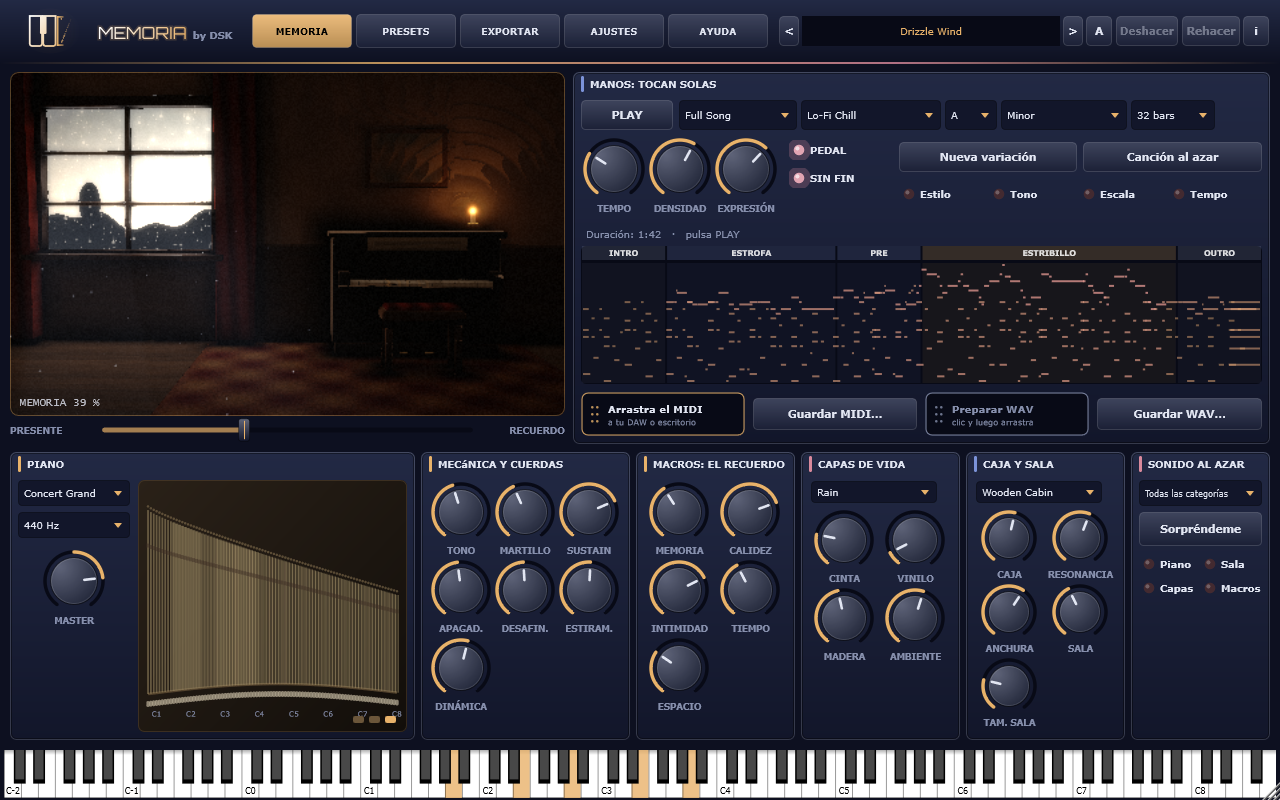
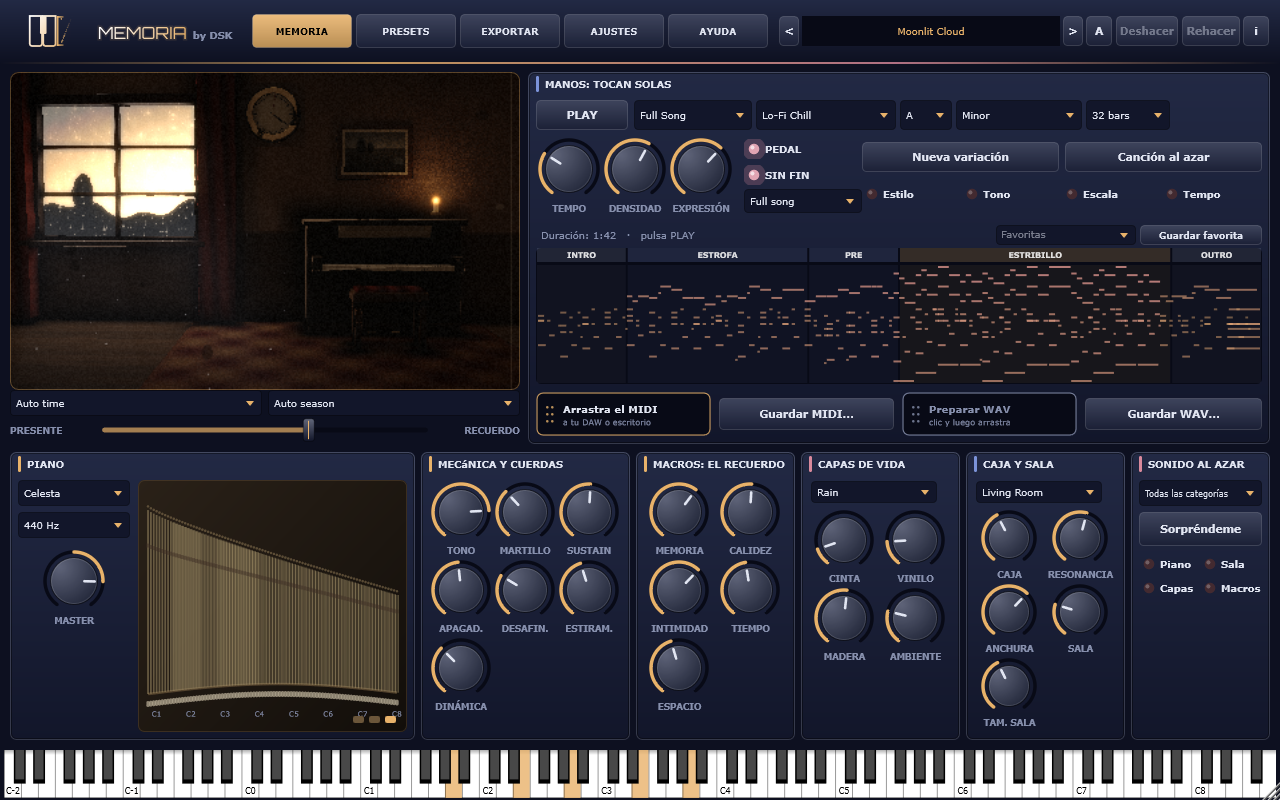
Docs, demo video inputs, screenshots, help page; styles; scene [skip ci]

diff --git a/tests/Video.cpp b/tests/Video.cpp
@@ -140,25 +140,44 @@ int runVideo (const juce::File& dir, bool trailer)
 {
     if (! trailer)
     {
-        // 70 s: one sound, one scene; MEMORY goes from a present studio piano to an attic tape, the world outside changes slowly
-        const double len = 70.0;
+        // 110 s: what is new: the hour of the day and the seasons behind the window, the wall clock, new instruments, new song styles
+        const double len = 110.0;
         std::vector<Caption> caps {
-            { "MEMORIA", "A piano with a soul  ·  Un piano con alma", 1.0, 7.0, true },
-            { "A physically modelled piano. No samples.", "Un piano modelado físicamente. Sin muestras.", 8.0, 15.0 },
-            { "Turn up MEMORY...", "Sube MEMORIA...", 17.0, 24.0 },
-            { "Tape, vinyl, wood and a room that remembers", "Cinta, vinilo, madera y una habitación con recuerdos", 28.0, 36.0 },
-            { "Rain on the window", "Lluvia en la ventana", 38.0, 45.0 },
-            { "The hands compose and play, in time with your DAW", "Las manos componen y tocan, al ritmo de tu DAW", 48.0, 56.0 },
-            { "MEMORIA by DSK", "Free · VST3 / AU / Standalone · dskmusic.com  ·  Gratis", 62.0, 69.0, true } };
+            { "MEMORIA", "A piano with a soul  ·  Un piano con alma", 1.0, 6.5, true },
+            { "A physically modelled piano. No samples.", "Un piano modelado físicamente. Sin muestras.", 7.5, 14.5 },
+            { "Hour of the day and season, behind your window", "Hora del día y estación del año, tras tu ventana", 16.0, 25.0 },
+            { "A wall clock that follows the light", "Un reloj de pared que sigue la luz", 27.0, 35.0 },
+            { "From dawn to a snowy night", "Del amanecer a una noche de nieve", 37.0, 45.0 },
+            { "New instruments: electric piano, vibraphone...", "Instrumentos nuevos: piano eléctrico, vibráfono...", 46.0, 55.0 },
+            { "...music box, marimba and glockenspiel", "...caja de música, marimba y glockenspiel", 56.0, 66.0 },
+            { "Four new song styles: Bossa Nova...", "Cuatro estilos nuevos: Bossa Nova...", 68.0, 76.0 },
+            { "...Singer-Songwriter and Slow Tango...", "...Cantautor y Tango lento...", 77.0, 86.0 },
+            { "...and a cheerful Village theme", "...y un alegre tema de Pueblo", 87.0, 95.0 },
+            { "Loops, choruses and short pieces: drag the MIDI into your DAW", "Bucles, estribillos y piezas cortas: arrastra el MIDI a tu DAW", 96.0, 104.0 },
+            { "MEMORIA by DSK", "Free · VST3 / AU / Standalone · dskmusic.com  ·  Gratis", 104.5, 109.5, true } };
         Setter setter = [] (MemoriaProcessor& p, double t)
         {
-            if (t < 0.02) prepareSound (p, 0, 1, 76.0f, 31);
-            if (t < 0.02) { setP (p, "hands", 1.0f); setP (p, "piano", 0.0f); }
-            const float m = ramp (t, 17.0, 40.0) * (1.0f - 0.7f * ramp (t, 56.0, 68.0));
-            setP (p, "memory", m);
-            setP (p, "world", t > 36.0 && t < 52.0 ? 1.0f : t >= 52.0 ? 3.0f : 0.0f);
-            setP (p, "world_level", 0.7f);
-            setP (p, "time", 0.7f);
+            if (t < 0.02) { prepareSound (p, 0, 1, 76.0f, 31); setP (p, "hands", 1.0f); setP (p, "piano", 0.0f); setP (p, "resonance", 0.3f); }
+            setP (p, "memory", 0.12f + 0.10f * ramp (t, 0.0, 100.0));
+            setP (p, "world_level", 0.5f); setP (p, "time", 0.6f);
+            // scene: auto at first, then hour and season sweep (the scene eases between looks)
+            const float tod = t < 16.0 ? 0.0f : t < 24.0 ? 2.0f : t < 30.0 ? 3.0f : t < 37.0 ? 4.0f : 5.0f;
+            const float season = t < 16.0 ? 0.0f : t < 24.0 ? 1.0f : t < 30.0 ? 2.0f : t < 37.0 ? 3.0f : t < 66.0 ? 4.0f : 0.0f;
+            setP (p, "scene_time", t < 94.0 ? tod : 3.0f); setP (p, "scene_season", t < 94.0 ? season : 2.0f);
+            // instruments
+            const float inst = t < 46.0 ? 0.0f : t < 51.0 ? 6.0f : t < 56.0 ? 7.0f : t < 61.0 ? 9.0f : t < 66.0 ? 10.0f : 0.0f;
+            setP (p, "piano", inst);
+            if (t >= 46.0 && t < 66.0) { setP (p, "tone", 0.55f); setP (p, "resonance", 0.1f); } else { setP (p, "tone", 0.45f); setP (p, "resonance", 0.3f); }
+            // song styles
+            int style = 0, key = 9, scale = 1; float tempo = 76;
+            if (t >= 46.0 && t < 68.0) { style = 8; key = 0; scale = 0; tempo = 74; }
+            else if (t >= 68.0 && t < 77.0) { style = 10; key = 2; scale = 0; tempo = 96; }
+            else if (t >= 77.0 && t < 87.0) { style = 11; key = 7; scale = 0; tempo = 76; }
+            else if (t >= 87.0 && t < 96.0) { style = 12; key = 9; scale = 7; tempo = 66; }
+            else if (t >= 96.0) { style = 13; key = 0; scale = 0; tempo = 100; }
+            setP (p, "hands_style", (float) style); setP (p, "hands_key", (float) key); setP (p, "hands_scale", (float) scale); setP (p, "hands_tempo", tempo);
+            setP (p, "hands_form", t >= 96.0 && t < 104.0 ? 1.0f : 0.0f);
+            setP (p, "hands_seed", 31.0f);
         };
         return makeVideo (dir, "Memoria-demo", len, setter, caps);
     }

diff --git a/src/ui/HelpPage.cpp b/src/ui/HelpPage.cpp
@@ -15,10 +15,10 @@ const Item items[] {
       "so the piano breathes with the way you play: soft and it is round, hard and it opens up and shines. "
       "Play with a MIDI keyboard or the on-screen keys. The sustain pedal (CC64) really works, half-pedaling included." },
     { "El piano", "The piano",
-      "PIANO elige el instrumento: cola de concierto, vertical, piano de fieltro, honky-tonk, piano de juguete, celesta, piano eléctrico o vibráfono. "
+      "PIANO elige el instrumento: cola de concierto, vertical, piano de fieltro, honky-tonk, piano de juguete, celesta, piano eléctrico (con trémolo y chorus), vibráfono, glockenspiel, caja de música o marimba. "
       "TONE es el brillo; HAMMER la dureza del fieltro del martillo; SUSTAIN cuánto dura la nota; DAMPERS lo rápido que cae el apagador al soltar la tecla. "
       "DETUNE desafina un poco las cuerdas de cada nota (más recuerdo, más piano viejo); STRETCH es el estiramiento natural de la afinación; DYNAMICS, cuánto cambia el sonido entre tocar suave y fuerte.",
-      "PIANO picks the instrument: concert grand, upright, felt piano, honky-tonk, toy piano, celesta, electric piano or vibraphone. "
+      "PIANO picks the instrument: concert grand, upright, felt piano, honky-tonk, toy piano, celesta, electric piano (with tremolo and chorus), vibraphone, glockenspiel, music box or marimba. "
       "TONE is brightness; HAMMER the hardness of the felt; SUSTAIN how long notes ring; DAMPERS how fast the damper falls when you release a key. "
       "DETUNE slightly detunes the strings of each note (more memory, older piano); STRETCH is the natural stretch of the tuning; DYNAMICS how much the sound changes between soft and hard playing." },
     { "Caja y sala", "Body & room",
@@ -26,6 +26,13 @@ const Item items[] {
       "WIDTH abre o cierra el estéreo (graves a la izquierda, agudos a la derecha, como oyes al piano). ROOM y ROOM SIZE añaden la sala.",
       "BODY is the wood of the soundboard. RESONANCE is the strings that ring on their own by sympathy while the pedal is down. "
       "WIDTH opens or closes the stereo image (low notes left, high notes right, as the pianist hears it). ROOM and ROOM SIZE add the room." },
+    { "La habitación y las manos", "The room & the hands",
+      "Bajo la escena eliges la HORA del día y la ESTACIÓN del año tras la ventana; el reloj de la pared sigue la luz. La vela y las cortinas reaccionan a la música. "
+      "En MANOS eliges estilo (14), tono, escala y FORMA: canción completa, bucle de 8 compases, solo estribillo o pieza corta. "
+      "«Guardar favorita» recuerda la canción que te gusta y «Favoritas» la recupera.",
+      "Under the scene you pick the HOUR of the day and the SEASON behind the window; the wall clock follows the light. The candle and the curtains react to the music. "
+      "In HANDS you pick the style (14), key, scale and FORM: full song, 8-bar loop, chorus only or a short piece. "
+      "\"Save favourite\" remembers a song you like and \"Favourites\" recalls it." },
     { "Presets y ajustes", "Presets & settings",
       "En PRESETS guardas y recuperas tus sonidos. A/B compara dos versiones y Deshacer / Rehacer siempre están a mano. "
       "Clic derecho en un mando: MIDI Learn. Doble clic: valor por defecto. En Ajustes cambias el idioma y el tamaño de la ventana.",

diff --git a/README.es.md b/README.es.md
@@ -18,20 +18,21 @@ la lluvia en la ventana. Un solo deslizador, **Memoria**, te lleva de un piano d
 - **Piano modelado físicamente (sin librería de muestras):** cada parcial es un resonador con decaimiento e inharmonicidad real de cuerda,
   2-3 cuerdas desafinadas por nota (batidos), el doble decaimiento del piano, fieltro del martillo que brilla más con la velocidad,
   posición de golpe, apagadores, modos de la caja y resonancia simpática. El pedal de sustain (CC64) es continuo: el medio pedal funciona.
-- **Ocho instrumentos:** cola de concierto, vertical, piano de fieltro, honky-tonk, piano de juguete, celesta, piano eléctrico (estilo Rhodes) y vibráfono.
+- **Once instrumentos:** cola de concierto, vertical, piano de fieltro, honky-tonk, piano de juguete, celesta, piano eléctrico (estilo Rhodes, con trémolo y chorus), vibráfono (con su motor), glockenspiel, caja de música y marimba.
 - **Macro Memoria** más Calidez, Intimidad (micro cerca o lejos), Tiempo (cuánto ha envejecido el piano) y Espacio.
 - **Capas de vida:** sonidos de madera (banco, mecanismo, pedal, apagadores), cinta (wow y flutter, saturación, pérdida de agudos, ruido, dropouts),
   vinilo (crackle, rumble, pop de la aguja) y un mundo lejano: lluvia, viento, chimenea, pájaros al amanecer. Cinco salas: salón, iglesia, estudio, cabaña de madera y sala de conciertos vacía.
 - **Manos: un compositor generativo para quien no toca.** Escribe canciones enteras - intro, estrofas, estribillos, puente y final - con armonía funcional
   (séptimas, novenas, acordes sus, dominantes, cadencias), motivos que se desarrollan, estribillos con gancho, patrones de acompañamiento y una interpretación expresiva
-  (dinámica, acordes arpegiados, rubato, pedal). Diez estilos (Lo-Fi Chill, Cinematic, Romantic, Minimal, vals de cuna, Power Ballad, Classical: el Canon en Re de Pachelbel con variaciones crecientes, Jazz Ballad, Lo-Fi Loop y un Nocturno al estilo de Chopin), 8 escalas, cualquier tono,
+  (dinámica, acordes arpegiados, rubato, pedal). Catorce estilos (Bossa Nova, Cantautor, Tango lento, tema de Pueblo, Lo-Fi Chill, Cinematic, Romantic, Minimal, vals de cuna, Power Ballad, Classical: el Canon en Re de Pachelbel con variaciones crecientes, Jazz Ballad, Lo-Fi Loop y un Nocturno al estilo de Chopin), 8 escalas, cualquier tono,
   de 16 a 128 compases, con su propio reloj y botón PLAY (nunca siguen el transporte del DAW); arrastra el MIDI a tu DAW para usarlo allí. **Nueva variación** y **Canción al azar** (con bloqueos) crean otra con un clic. Pulsa en cualquier punto del mapa de la canción para saltar ahí mientras suena.
   **Exporta la canción:** arrástrala como archivo MIDI (o como WAV renderizado) directamente a tu DAW, o guárdala como .mid / .wav.
-- **222 presets de fábrica** en 10 categorías: Lo-Fi, Felt, Cinematic, Rainy, Vintage, Church, Lullaby, Study, Concert y Toy.
+- **232 presets de fábrica** en 10 categorías: Lo-Fi, Felt, Cinematic, Rainy, Vintage, Church, Lullaby, Study, Concert y Toy.
   **Sonido al azar** genera un piano + sala + capas + macros nuevos en cualquier categoría, con bloqueos por sección, validado y con el nivel igualado.
 - **Una habitación 3D cinematográfica, renderizada en directo en tu tarjeta gráfica:** una escena 3D real (raymarching, sombras suaves, oclusión ambiental, reflejos en el lacado y el suelo,
   rayos de luz volumétricos con polvo, lluvia en el cristal, una vela que parpadea, envejecimiento de película). Las teclas del piano se hunden con las notas que suenan.
   Sigue el ambiente que elijas (lluvia, viento, chimenea, amanecer) y envejece con Memoria (sepia, grano, rayas, destellos).
+  Elige la **hora del día** (del amanecer a la noche) y la **estación** tras la ventana (flores, hojas, nieve); un **reloj de pared** sigue la luz, una **fotografía** desenfocada cambia con cada preset y las cortinas y la vela reaccionan a la música, más en los estribillos.
   Tres niveles de calidad en Ajustes; si tu tarjeta no puede, usa una escena por CPU.
 - **El interior del piano, en vivo:** 88 cuerdas que brillan y vibran, martillos que golpean con la velocidad real, apagadores y pedal.
 - **Exportación de audio largo:** las manos tocan de 1 minuto a 3 horas en WAV, FLAC u OGG.

diff --git a/README.md b/README.md
@@ -18,20 +18,21 @@ window. One slider, **Memory**, takes you from a crisp, present studio piano to 
 - **Physically modelled piano (no sample library):** every partial is a decaying resonator with real string inharmonicity,
   2-3 detuned strings per note (beating), the piano's double decay, hammer felt that gets brighter with velocity,
   strike-position comb, dampers, soundboard modes and sympathetic resonance. The sustain pedal (CC64) is continuous: half pedal works.
-- **Eight instruments:** concert grand, upright, felt piano, honky-tonk, toy piano, celesta, electric piano (Rhodes-style) and vibraphone.
+- **Eleven instruments:** concert grand, upright, felt piano, honky-tonk, toy piano, celesta, electric piano (Rhodes-style, with tremolo and chorus), vibraphone (with its motor), glockenspiel, music box and marimba.
 - **Memory macro** plus Warmth, Intimacy (close mic to far), Time (how aged the piano is) and Space.
 - **Layers of life:** wooden sounds (bench, key action, pedal, dampers), tape (wow and flutter, saturation, dull highs, hiss, dropouts),
   vinyl (crackle, rumble, needle pop) and a distant world: rain, wind, fireplace, dawn birds. Five rooms: living room, church, studio, wooden cabin, empty concert hall.
 - **Hands: a generative composer for people who do not play.** It writes whole songs - intro, verses, choruses, bridge, outro - with functional
   harmony (7ths, 9ths, sus chords, dominants, cadences), motifs that develop, hook-driven choruses, accompaniment patterns and an expressive performance
-  (dynamics, rolled chords, rubato, pedalling). Ten styles (Lo-Fi Chill, Cinematic, Romantic, Minimal, Lullaby waltz, Power Ballad, Classical: Pachelbel's Canon in D with growing variations, Jazz Ballad, Lo-Fi Loop and a Chopin-style Nocturne), 8 scales, any key,
+  (dynamics, rolled chords, rubato, pedalling). Fourteen styles (Bossa Nova, Singer-Songwriter, Slow Tango, a Village game theme, Lo-Fi Chill, Cinematic, Romantic, Minimal, Lullaby waltz, Power Ballad, Classical: Pachelbel's Canon in D with growing variations, Jazz Ballad, Lo-Fi Loop and a Chopin-style Nocturne), 8 scales, any key,
   16 to 128 bars, playing on their own clock (PLAY inside the instrument, never with the DAW transport); drag the MIDI into your DAW to use it there. **New variation** and **Random song** (with locks) make a new one in a click. Click anywhere on the song map to jump there while it plays.
   **Export the song:** drag it as a MIDI file (or as a rendered WAV) straight into your DAW, or save it as .mid / .wav.
-- **222 factory presets** in 10 categories: Lo-Fi, Felt, Cinematic, Rainy, Vintage, Church, Lullaby, Study, Concert and Toy.
+- **232 factory presets** in 10 categories: Lo-Fi, Felt, Cinematic, Rainy, Vintage, Church, Lullaby, Study, Concert and Toy.
   **Random sound** generates a new piano + room + layers + macros in any category, with locks for each section, validated and level-matched.
 - **A cinematic 3D room, rendered live on your graphics card:** a real 3D scene (ray-marched, soft shadows, ambient occlusion, lacquer and floor reflections,
   volumetric light shafts with floating dust, rain on the glass, a flickering candle, film ageing). The keys of the piano go down with the notes that sound.
   It follows the weather you choose (rain, wind, fireplace, dawn) and ages with Memory (sepia, grain, scratches, light leaks).
+  Choose the **hour of the day** (dawn to night) and the **season** behind the window (blossom, leaves, snow); a **wall clock** follows the light, a soft-focus **photograph** changes with every preset, and the curtains and the candle react to the music, more in the choruses.
   Three quality levels in Settings; a CPU scene is used if your graphics card cannot run it.
 - **The inside of the piano, live:** 88 strings that glow and vibrate, hammers that strike with the real velocity, dampers and pedal.
 - **Long audio export:** the hands play for 1 minute to 3 hours to WAV, FLAC or OGG.

diff --git a/CHANGELOG.md b/CHANGELOG.md
@@ -43,3 +43,7 @@
 - Hands: songbook grown to 20 themes (8 per style, so the same style gives many different songs); repeats are never copies (second verse with anticipations and passing notes), choruses add a counter-melody and a low bass octave, the last chorus is doubled and lifts a tone (now from 32 bars).
 - New instruments: Electric Piano (Rhodes-style) and Vibraphone, with 12 new presets (222 in total).
 - Hands: songbook expanded to 200 themes (20 hand-written + 180 composed offline from motifs, sequences and cadences, scored and filtered; picked per style by mood), 8 progressions for waltzes and 28 for 4/4. Music lint now checks 30 seeds per style.
+- New instruments: Glockenspiel, Music Box and Marimba (each folds the low notes up into its own register), Rhodes tremolo and chorus, vibraphone motor. 10 more presets (232 in total).
+- Hands: song form (full song, 8-bar loop, chorus only, short piece) and favourite songs (saved with the songbook version); four new styles (Bossa Nova, Singer-Songwriter, Slow Tango, Village) with their own accompaniment and rhythms; 124 more themes (about 300).
+- Scene: hour of the day and season (eased, never a hard cut), a wall clock that follows the light, a soft-focus photograph per preset, curtains / candle / light react to the music (choruses more). Auto keeps the previous look.
+- Tools: `scenegrid` renders every hour x season; the shader source lives in `tools/room3d.glsl` (assembled into the C++ literal by `tools/r5.py`), the songbook generator in `tools/gen_book.py`.
